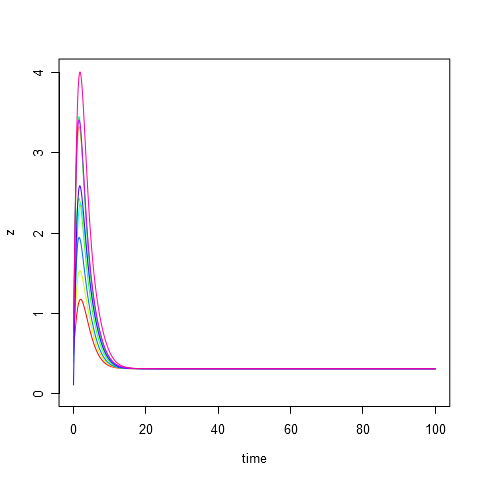
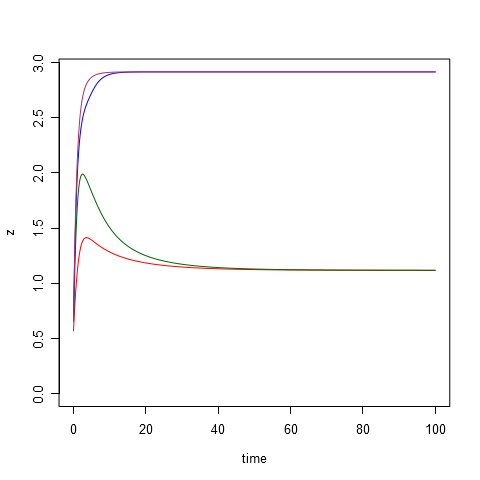
Improve model set

diff --git a/Dro_AS-C_6d/Runs/001/README.md b/Dro_AS-C_6d/Runs/001/README.md
@@ -1,0 +1,86 @@
+# Parameters #
+	d1 = 6.0
+	d3 = 40.0
+	d5 = 90.0
+	A3 =  0.5
+	A4 =  0.5
+	A5 =  1.5
+	A6 =  0.2
+	B3 =  3.0
+	B4 =  4.2
+	B5 =  5.0
+	B6 =  2.5
+	k3 =  3.0
+	k4 =  4.0
+	k5 =  4.0
+	k6 =  1.0
+	C  = 12.0
+	D  =  1.5
+	E  =  4.0
+	G  =  3.0
+	U  =  1.2
+
+# Initial data #
+|id   |          x|          y|          z|          u|          w|          p|
+|:----|----------:|----------:|----------:|----------:|----------:|----------:|
+|t1   |  0.2655087|  0.3721239|  0.5728534|  0.9082078|  0.2016819|  0.8983897|
+|t2   |  0.9446753|  0.6607978|  0.6291140|  0.0617863|  0.2059746|  0.1765568|
+|t3   |  0.6870228|  0.3841037|  0.7698414|  0.4976992|  0.7176185|  0.9919061|
+|t4   |  0.3800352|  0.7774452|  0.9347052|  0.2121425|  0.6516738|  0.1255551|
+|t5   |  0.2672207|  0.3861141|  0.0133903|  0.3823880|  0.8696908|  0.3403490|
+|t6   |  0.4820801|  0.5995658|  0.4935413|  0.1862176|  0.8273733|  0.6684667|
+|t7   |  0.7942399|  0.1079436|  0.7237109|  0.4112744|  0.8209463|  0.6470602|
+|t8   |  0.7829328|  0.5530363|  0.5297196|  0.7893562|  0.0233312|  0.4772301|
+|t9   |  0.7323137|  0.6927316|  0.4776196|  0.8612095|  0.4380971|  0.2447973|
+|t10  |  0.0706790|  0.0994662|  0.3162717|  0.5186343|  0.6620051|  0.4068302|
+
+
+# Equilibrium points #
+|id  |          x|         y|         z|         u|          w|         p|
+|:---|----------:|---------:|---------:|---------:|----------:|---------:|
+|s1  |  0.4585582|  3.113822|  1.911794|  2.853785|  0.1868770|  1.548992|
+|s2  |  0.7478161|  2.460269|  2.597696|  3.877516|  0.9023966|  1.788483|
+|s3  |  0.9888416|  2.344058|  2.850760|  4.119328|  2.4163435|  1.957512|
+
+
+# Modeling results #
+**composition.png**:
+
+![composition.png](composition.png)
+
+**plot-time-p.png**:
+
+![plot-time-p.png](plot-time-p.png)
+
+**plot-time-u.png**:
+
+![plot-time-u.png](plot-time-u.png)
+
+**plot-time-w.png**:
+
+![plot-time-w.png](plot-time-w.png)
+
+**plot-time-x.png**:
+
+![plot-time-x.png](plot-time-x.png)
+
+**plot-time-y.png**:
+
+![plot-time-y.png](plot-time-y.png)
+
+**plot-time-z.png**:
+
+![plot-time-z.png](plot-time-z.png)
+
+**plot-u-w-p.png**:
+
+![plot-u-w-p.png](plot-u-w-p.png)
+
+**plot-x-u-w.png**:
+
+![plot-x-u-w.png](plot-x-u-w.png)
+
+**plot-x-y-z.png**:
+
+![plot-x-y-z.png](plot-x-y-z.png)
+

diff --git a/Dro_AS-C_5d/Runs/001/README.md b/Dro_AS-C_5d/Runs/001/README.md
@@ -1,40 +1,36 @@
 # Parameters #
-	d1 =  5.0
-	d3 =  6.0
-	d5 =  7.0
-	A3 =  1.0
-	A4 =  2.0
-	A5 =  1.0
-	B3 =  6.0
-	B4 =  5.2
-	B5 =  9.0
+	d1 = 16.0
+	d3 = 18.0
+	d5 = 20.0
+	A3 =  0.5
+	A4 =  1.0
+	A5 =  1.5
+	B3 =  3.0
+	B4 =  4.2
+	B5 =  5.0
 	k3 =  3.0
-	k4 =  4.5
+	k4 =  3.5
 	k5 =  4.0
 	C  = 12.0
 	D  =  1.5
-	E  =  0.5
+	E  =  4.0
 	G  =  3.0
 
 # Initial data #
-|id   |          x|          y|          z|          u|          w|
-|:----|----------:|----------:|----------:|----------:|----------:|
-|t1   |  0.2655087|  0.3721239|  0.5728534|  0.9082078|  0.2016819|
-|t2   |  0.8983897|  0.9446753|  0.6607978|  0.6291140|  0.0617863|
-|t3   |  0.2059746|  0.1765568|  0.6870228|  0.3841037|  0.7698414|
-|t4   |  0.4976992|  0.7176185|  0.9919061|  0.3800352|  0.7774452|
-|t5   |  0.9347052|  0.2121425|  0.6516738|  0.1255551|  0.2672207|
-|t6   |  0.3861141|  0.0133903|  0.3823880|  0.8696908|  0.3403490|
-|t7   |  0.4820801|  0.5995658|  0.4935413|  0.1862176|  0.8273733|
-|t8   |  0.6684667|  0.7942399|  0.1079436|  0.7237109|  0.4112744|
-|t9   |  0.8209463|  0.6470602|  0.7829328|  0.5530363|  0.5297196|
-|t10  |  0.7893562|  0.0233312|  0.4772301|  0.7323137|  0.6927316|
+|id  |     x|     y|     z|     u|     w|
+|:---|-----:|-----:|-----:|-----:|-----:|
+|t1  |  0.26|  0.37|  0.57|  0.90|  0.20|
+|t2  |  0.40|  0.17|  0.68|  0.38|  0.76|
+|t3  |  0.89|  0.94|  0.66|  0.62|  0.06|
+|t4  |  1.20|  0.21|  0.65|  0.12|  0.26|
 
 
 # Equilibrium points #
-|x         |         y|          z|          u|          w|
-|:---------|---------:|----------:|----------:|----------:|
-|0.020276  |  11.99118|  0.3103338|  0.0007357|  0.1823926|
+|id  |          x|         y|         z|          u|          w|
+|:---|----------:|---------:|---------:|----------:|----------:|
+|s1  |  0.2175206|  8.804052|  1.117745|  0.3630088|  0.0452959|
+|s2  |  0.7216559|  3.528332|  2.554893|  2.4010401|  0.7920778|
+|s3  |  1.1210686|  2.476250|  2.915808|  3.8460383|  3.3700866|
 
 
 # Modeling results #

diff --git a/Dro_AS-C_5d/Runs/001/start.md b/Dro_AS-C_5d/Runs/001/start.md
@@ -1,12 +1,6 @@
-|id   |          x|          y|          z|          u|          w|
-|:----|----------:|----------:|----------:|----------:|----------:|
-|t1   |  0.2655087|  0.3721239|  0.5728534|  0.9082078|  0.2016819|
-|t2   |  0.8983897|  0.9446753|  0.6607978|  0.6291140|  0.0617863|
-|t3   |  0.2059746|  0.1765568|  0.6870228|  0.3841037|  0.7698414|
-|t4   |  0.4976992|  0.7176185|  0.9919061|  0.3800352|  0.7774452|
-|t5   |  0.9347052|  0.2121425|  0.6516738|  0.1255551|  0.2672207|
-|t6   |  0.3861141|  0.0133903|  0.3823880|  0.8696908|  0.3403490|
-|t7   |  0.4820801|  0.5995658|  0.4935413|  0.1862176|  0.8273733|
-|t8   |  0.6684667|  0.7942399|  0.1079436|  0.7237109|  0.4112744|
-|t9   |  0.8209463|  0.6470602|  0.7829328|  0.5530363|  0.5297196|
-|t10  |  0.7893562|  0.0233312|  0.4772301|  0.7323137|  0.6927316|
+|id  |     x|     y|     z|     u|     w|
+|:---|-----:|-----:|-----:|-----:|-----:|
+|t1  |  0.26|  0.37|  0.57|  0.90|  0.20|
+|t2  |  0.40|  0.17|  0.68|  0.38|  0.76|
+|t3  |  0.89|  0.94|  0.66|  0.62|  0.06|
+|t4  |  1.20|  0.21|  0.65|  0.12|  0.26|

diff --git a/Dro_AS-C_6d/Runs/001/start.md b/Dro_AS-C_6d/Runs/001/start.md
@@ -1,0 +1,12 @@
+|id   |          x|          y|          z|          u|          w|          p|
+|:----|----------:|----------:|----------:|----------:|----------:|----------:|
+|t1   |  0.2655087|  0.3721239|  0.5728534|  0.9082078|  0.2016819|  0.8983897|
+|t2   |  0.9446753|  0.6607978|  0.6291140|  0.0617863|  0.2059746|  0.1765568|
+|t3   |  0.6870228|  0.3841037|  0.7698414|  0.4976992|  0.7176185|  0.9919061|
+|t4   |  0.3800352|  0.7774452|  0.9347052|  0.2121425|  0.6516738|  0.1255551|
+|t5   |  0.2672207|  0.3861141|  0.0133903|  0.3823880|  0.8696908|  0.3403490|
+|t6   |  0.4820801|  0.5995658|  0.4935413|  0.1862176|  0.8273733|  0.6684667|
+|t7   |  0.7942399|  0.1079436|  0.7237109|  0.4112744|  0.8209463|  0.6470602|
+|t8   |  0.7829328|  0.5530363|  0.5297196|  0.7893562|  0.0233312|  0.4772301|
+|t9   |  0.7323137|  0.6927316|  0.4776196|  0.8612095|  0.4380971|  0.2447973|
+|t10  |  0.0706790|  0.0994662|  0.3162717|  0.5186343|  0.6620051|  0.4068302|

diff --git a/Dro_AS-C_5d/Runs/001/equilibriums.md b/Dro_AS-C_5d/Runs/001/equilibriums.md
@@ -1,3 +1,5 @@
-|x         |         y|          z|          u|          w|
-|:---------|---------:|----------:|----------:|----------:|
-|0.020276  |  11.99118|  0.3103338|  0.0007357|  0.1823926|
+|id  |          x|         y|         z|          u|          w|
+|:---|----------:|---------:|---------:|----------:|----------:|
+|s1  |  0.2175206|  8.804052|  1.117745|  0.3630088|  0.0452959|
+|s2  |  0.7216559|  3.528332|  2.554893|  2.4010401|  0.7920778|
+|s3  |  1.1210686|  2.476250|  2.915808|  3.8460383|  3.3700866|

diff --git a/Dro_AS-C_6d/Runs/001/equilibriums.md b/Dro_AS-C_6d/Runs/001/equilibriums.md
@@ -1,0 +1,5 @@
+|id  |          x|         y|         z|         u|          w|         p|
+|:---|----------:|---------:|---------:|---------:|----------:|---------:|
+|s1  |  0.4585582|  3.113822|  1.911794|  2.853785|  0.1868770|  1.548992|
+|s2  |  0.7478161|  2.460269|  2.597696|  3.877516|  0.9023966|  1.788483|
+|s3  |  0.9888416|  2.344058|  2.850760|  4.119328|  2.4163435|  1.957512|
